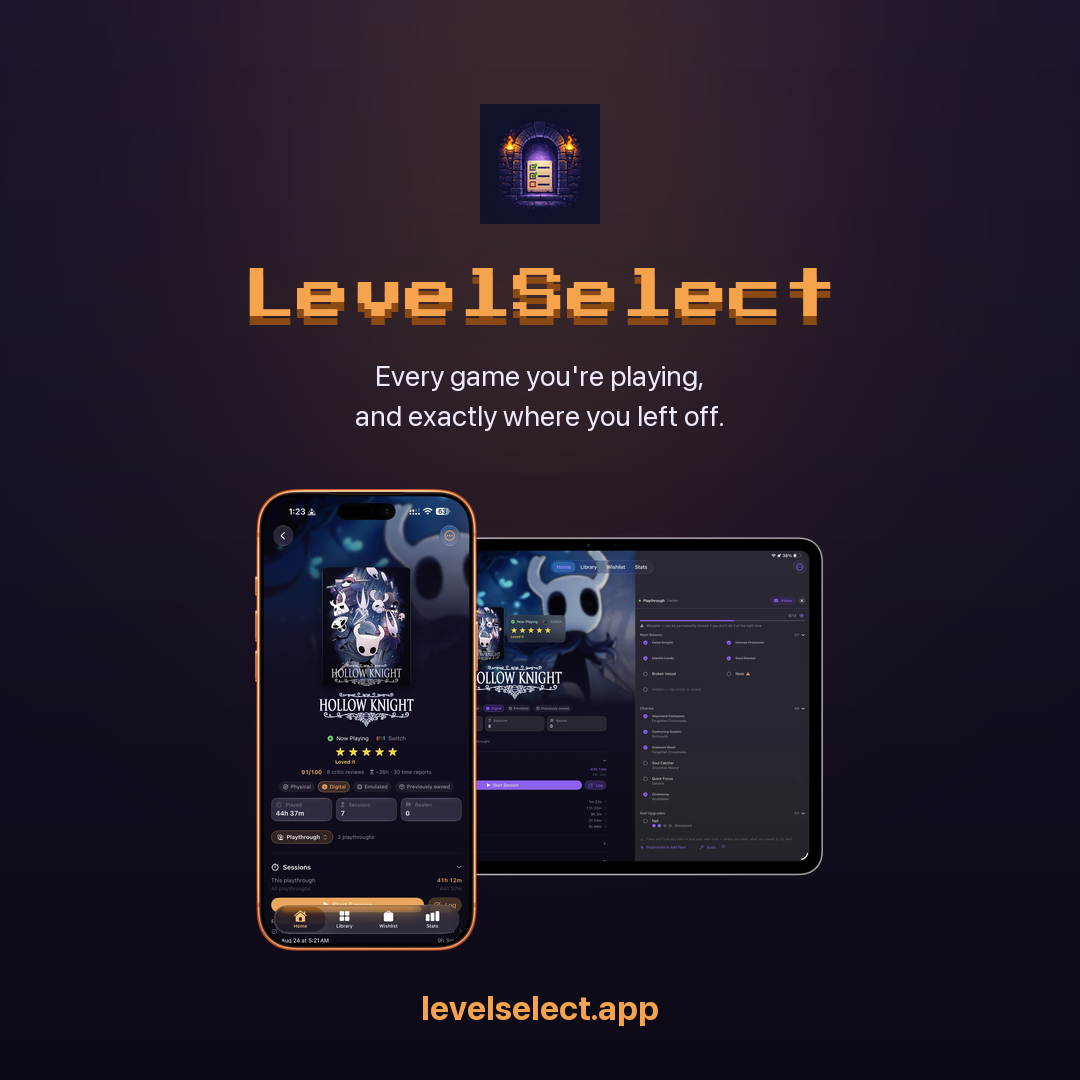
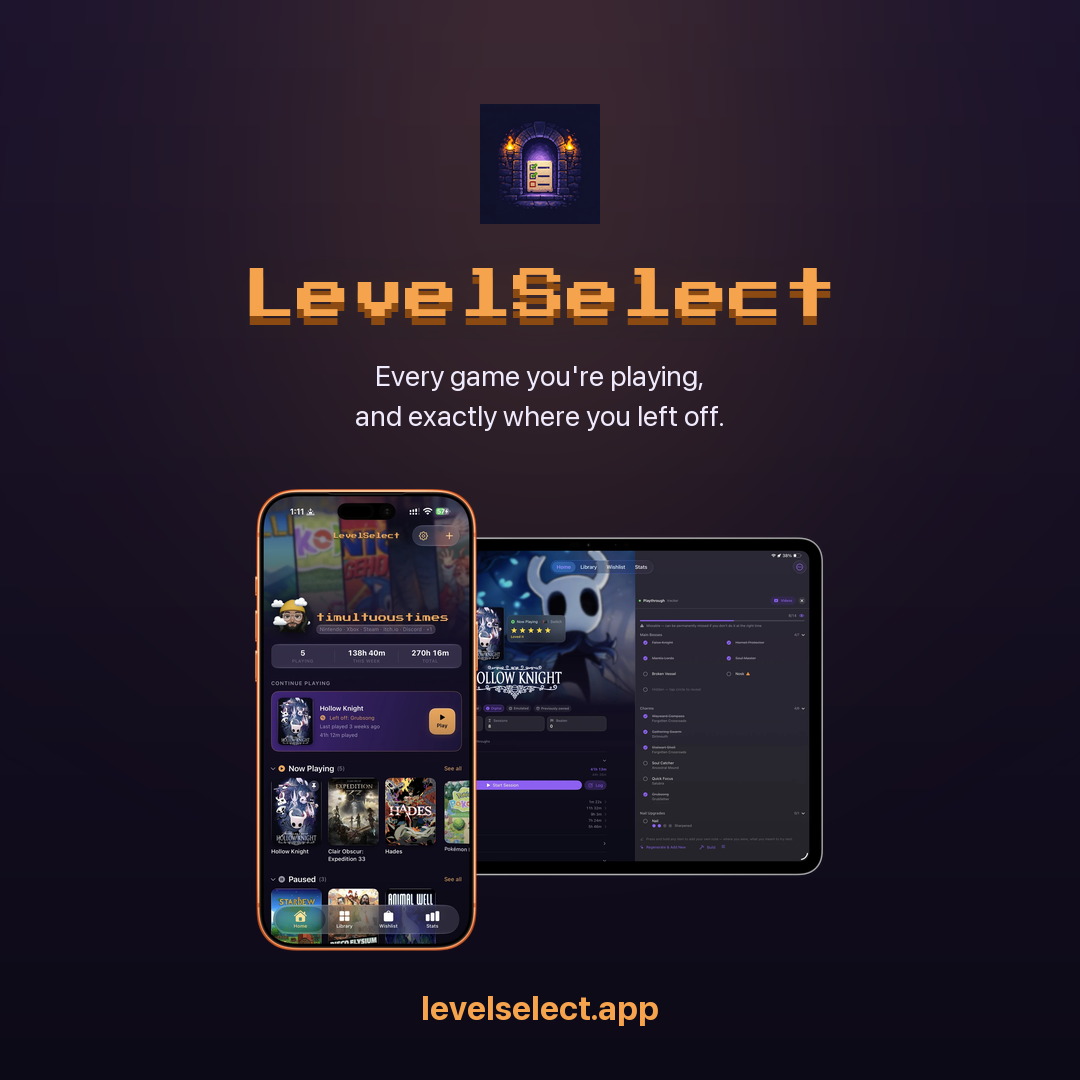
Social images lead with Home
Tim: Home changed dramatically in build 33, and the rule that kept it out
of these images was written before that.

He is right, and the rule said as much itself. It read: "The Home shelf is
a dense grid of small covers: fine on the site, mush in a Reddit unfurl. A
game page carries one big logo that survives being shrunk." That was true
when it was written. Build 33 rebuilt Home around a profile — a portrait, a
name in the pixel face, a three-number band — so the exact property that
made it unreadable at thumbnail size no longer exists.

Home is now the most recognisable screen in the app and the one that says
what the app is for, so it takes the phone. The iPad keeps a game page with
its tracker open, which makes the pairing say something: where you land,
and where you end up.

Worth noting for next time: the comment explaining the old choice is what
made this decision quick. A rule that records WHY it exists can be checked
against the world later; one that just says what to do cannot.

Changed region(s): [[0.2444, 0.4583, 0.4583, 0.8861]]

diff --git a/site/scripts/make-social-images.py b/site/scripts/make-social-images.py
@@ -28,19 +28,21 @@ TORCH_DEEP  = (138, 74, 18)
 INK         = (239, 234, 251)
 MUTED       = (153, 144, 184)
 
-# NOT necessarily the hero's shot — these are chosen for legibility at
-# thumbnail size, which is the only job a link preview has. The Home shelf is a
-# dense grid of small covers: fine on the site, mush in a Reddit unfurl. A game
-# page carries one big logo that survives being shrunk. The hero went back to
-# Home when the site turned out to have no picture of the app's front door
-# anywhere; this stayed put on purpose.
+# Home on the phone, a game page on the iPad — so a preview shows both the
+# front door and what's behind it.
 #
-# Updated to the build-33 shot 2026-08-30. Same composition and the same
-# reasoning — a game page, not Home — just the current app. Build 33's Home
-# does now carry a big pixel name that would survive a thumbnail, but a
-# wordmark over key art still beats it, and the unfurl should look like the
-# thing people are shown first when they open a game.
-PHONE_SHOT = "iphone-33-layout-showcase.webp"
+# This reverses the original rule, and the rule said why it would need
+# reversing. It read: "The Home shelf is a dense grid of small covers: fine on
+# the site, mush in a Reddit unfurl. A game page carries one big logo that
+# survives being shrunk." True when it was written. Build 33 rebuilt Home
+# around a profile — a portrait, a name in the pixel face, and a three-number
+# band — so the thing that made it unreadable at thumbnail size is gone. It is
+# now the most recognisable screen in the app and the one that says what the
+# app is for.
+#
+# The iPad shot is a game page with its tracker open, which keeps the pairing
+# honest: the unfurl shows where you land and where you end up.
+PHONE_SHOT = "iphone-33-home-profile.webp"
 IPAD_SHOT  = "ipad-01-split-tracker.webp"
 
 PIXEL = str(PUB / "assets" / "PressStart2P-Regular.ttf")
